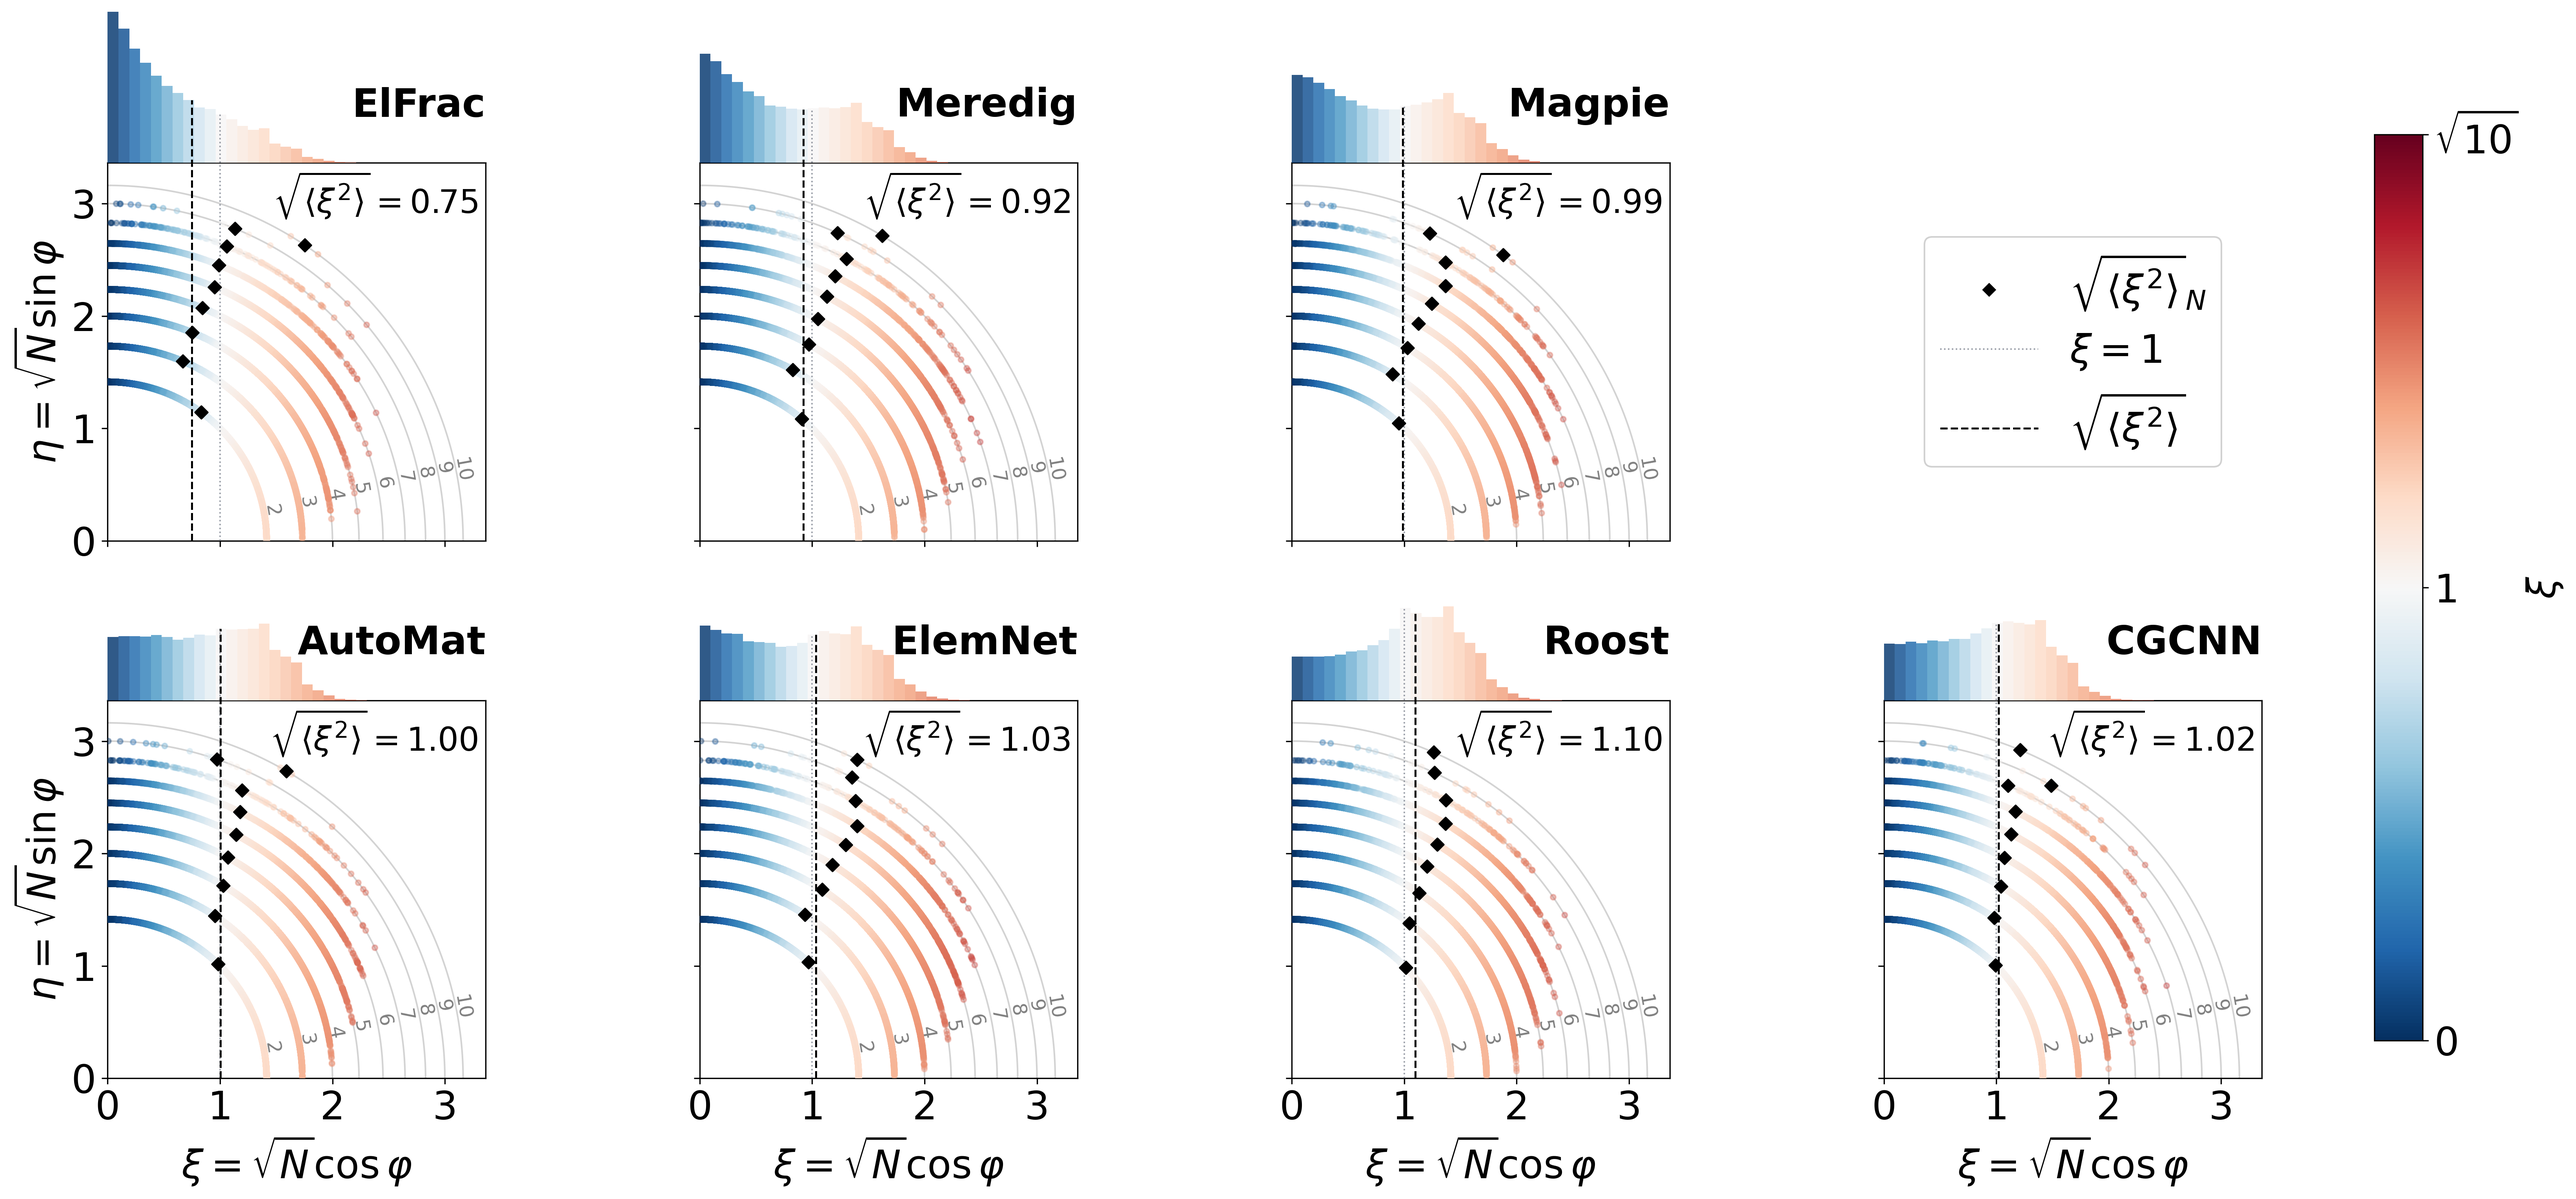
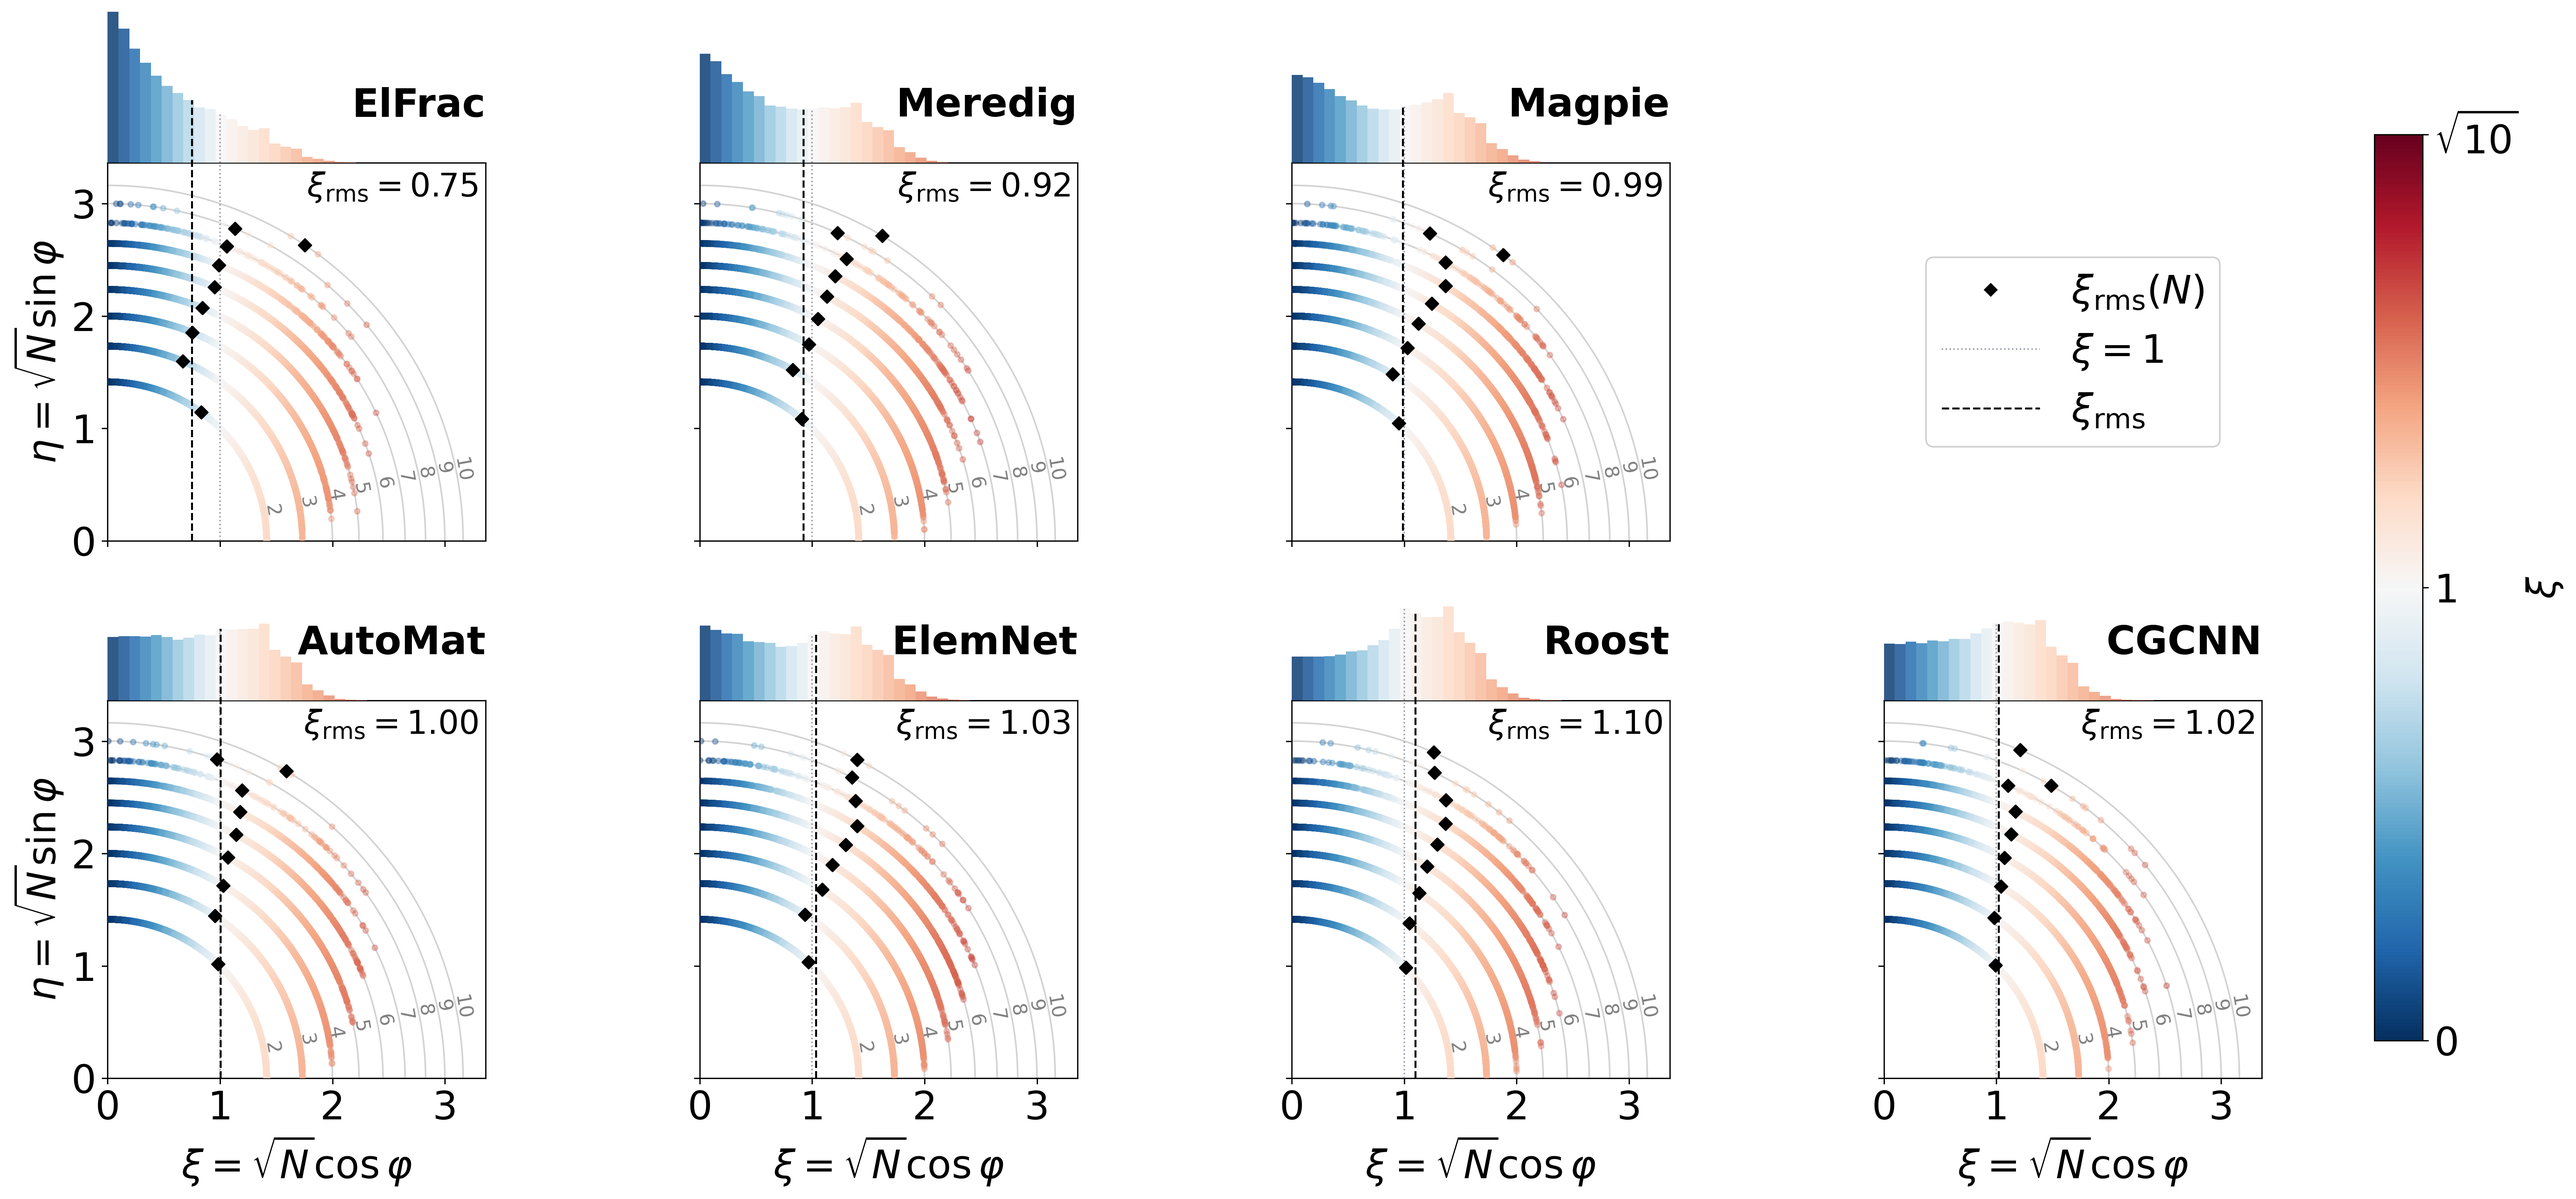
figure style update

diff --git a/scripts/figures/fig3.py b/scripts/figures/fig3.py
@@ -15,13 +15,14 @@ import numpy as np
 import matplotlib
 matplotlib.use("Agg")
 import matplotlib.pyplot as plt
+import matplotlib.gridspec as gridspec
 from matplotlib.colors import TwoSlopeNorm
 
 # ── Journal style (npj Computational Materials) ──────────────────────────
 # source_pt = target_print_pt × (fig_width / journal_col_width)
 # Targets 7 pt (body) and 6 pt (minor) at 170 mm double-column.
 _JOURNAL_COL_W = 6.69          # 170 mm in inches
-_FIG_W         = 12.0          # this figure's width in inches
+_FIG_W         = 14.0          # rendering width for font scaling
 _FS    = round(7.0 * _FIG_W / _JOURNAL_COL_W)   # → 13 pt  (body / axis labels)
 _FS_SM = round(6.0 * _FIG_W / _JOURNAL_COL_W)   # → 11 pt  (minor annotations)
 _FS_LEG, _FS_CB = _FS, _FS
@@ -73,8 +74,13 @@ def _unit(U, V):
     return U / mag, V / mag
 
 # ── Figure ────────────────────────────────────────────────────────────────────
-fig, axes = plt.subplots(1, 2, figsize=(12, 5.5))
-fig.subplots_adjust(left=0.07, right=0.88, wspace=0.32)
+fig = plt.figure(figsize=(6.5, 14))
+gs  = gridspec.GridSpec(2, 1,
+                        height_ratios=[1, 1],
+                        hspace=0.25,
+                        left=0.12, right=0.95, top=0.96, bottom=0.10)
+axes   = [fig.add_subplot(gs[0]), fig.add_subplot(gs[1])]
+cbar_ax = fig.add_axes([0.15, 0.03, 0.70, 0.012])
 
 ext = EXTENT * 0.93   # reference-line extent
 phi_c = np.linspace(0, 2 * np.pi, 400)
@@ -85,7 +91,7 @@ panels = [
      r'$-\nabla_\mathbf{r}\,\mathcal{L}_\mathrm{MSE}$'),
     (axes[1], U_xi2,  V_xi2,  xs_b, ys_b, 'b',
      r'$\mathcal{L}_{\xi^2} = \xi^2 = N\cdot \cos^2 \varphi$',
-     r'$-\nabla_\mathbf{r}\,\xi^2$'),
+     r'$-\nabla_\mathbf{r}\,\mathcal{L}_{\xi^2}$'),
 ]
 
 for ax, U, V, xs, ys, panel_lbl, title_str, eq_str in panels:
@@ -131,12 +137,11 @@ for ax, U, V, xs, ys, panel_lbl, title_str, eq_str in panels:
     ax.set_ylabel(r'$r_2$', fontsize=_FS)
     ax.tick_params(top=False, right=False)
 
-# ── Shared colorbar ───────────────────────────────────────────────────────────
-cbar_ax = fig.add_axes([0.90, 0.15, 0.018, 0.70])
+# ── Shared colorbar (horizontal, between panels) ──────────────────────────────
 sm = plt.cm.ScalarMappable(cmap=CMAP, norm=norm)
 sm.set_array([])
-cbar = fig.colorbar(sm, cax=cbar_ax)
-cbar.set_label(r'$\xi$', fontsize=_FS_CB)
+cbar = fig.colorbar(sm, cax=cbar_ax, orientation='horizontal')
+cbar.set_label(r'$\xi$', fontsize=_FS_CB, labelpad=2)
 cbar.set_ticks([0, 1, SQ2])
 cbar.set_ticklabels(['0', '1', r'$\sqrt{2}$'])
 

diff --git a/scripts/figures/fig1.py b/scripts/figures/fig1.py
@@ -34,7 +34,7 @@ norm   = TwoSlopeNorm(vmin=0, vcenter=1.0, vmax=np.sqrt(10))
 # _PT_BODY / _PT_SM set the desired print size in pt — increase if fonts look
 # too small on screen (dense figures like this one warrant a larger target).
 _JOURNAL_COL_W   = 6.69   # 170 mm in inches
-_FIG_W           = 12.0   # this figure's width in inches
+_FIG_W           = 11.0   # rendering width for font scaling
 _PT_BODY, _PT_SM = 9.0, 7.5   # target print sizes (pt)
 _FS    = round(_PT_BODY * _FIG_W / _JOURNAL_COL_W)   # → 16 pt
 _FS_SM = round(_PT_SM   * _FIG_W / _JOURNAL_COL_W)   # → 13 pt
@@ -128,7 +128,7 @@ def draw_panel(ax, key):
     ax.plot([xi_rms, xi_rms], [0, rms_top], color='black', lw=1.2, ls='--',
             zorder=5, clip_on=False)
     # rms value as text annotation inside the panel
-    ax.text(0.98, 0.98, r'$\sqrt{\langle\xi^2\rangle} =' + rf'{xi_rms:.2f}$',
+    ax.text(0.98, 0.98, r'$\xi_\mathrm{rms} =' + rf'{xi_rms:.2f}$',
             transform=ax.transAxes, fontsize=_FS_SM, ha='right', va='top')
 
     # -- Frame wraps circle region only: ylim = (0, CIRC_TOP) ----------------
@@ -141,12 +141,15 @@ def draw_panel(ax, key):
     ax.set_aspect('equal')
 
 # -- Figure -------------------------------------------------------------------
-fig, (ax_a, ax_b) = plt.subplots(1, 2, figsize=(12, 8))
+fig, (ax_a, ax_b) = plt.subplots(2, 1, figsize=(6.5, 13))
+fig.subplots_adjust(hspace=0.35)
 
 draw_panel(ax_a, 'cancel')
 draw_panel(ax_b, 'stat')
-ax_b.tick_params(labelleft=False)
-ax_b.set_ylabel('')
+
+# Remove x-axis label and tick labels from panel a (shared with b)
+ax_a.set_xlabel('')
+ax_a.tick_params(labelbottom=False)
 
 # Shared legend — diamond + ξ=1 line, shared across both panels
 _leg_handles = [
@@ -155,17 +158,26 @@ _leg_handles = [
     mlines.Line2D([], [], color=COL_REF, lw=0.9, ls=':', alpha=0.7,
                   label=r'$\xi = 1$'),
     mlines.Line2D([], [], color='black', lw=1.2, ls='--',
-                  label=r'$\sqrt{\langle\xi^2\rangle}$'),
+                  label=r'$\xi_\mathrm{rms}$'),
 ]
 fig.legend(handles=_leg_handles, loc='lower center', ncol=3,
-           fontsize=_FS_LEG, framealpha=0.9, bbox_to_anchor=(0.5, -0.04))
+           fontsize=_FS_LEG, framealpha=0.9, bbox_to_anchor=(0.5, 0.025))
+
+# Colorbar below legend
+cbar_ax = fig.add_axes([0.15, -0.015, 0.70, 0.012])
+sm = plt.cm.ScalarMappable(cmap=CMAP, norm=norm)
+sm.set_array([])
+cbar = fig.colorbar(sm, cax=cbar_ax, orientation='horizontal')
+cbar.set_label(r'$\xi$', fontsize=_FS_CB)
+cbar.set_ticks([0, 1, np.sqrt(10)])
+cbar.set_ticklabels(['0', '1', r'$\sqrt{10}$'])
 
 # Panel labels
 for ax, lbl in [(ax_a, 'a'), (ax_b, 'b')]:
     ax.text(-0.18, 1.15, lbl, transform=ax.transAxes,
             fontsize=_FS_PANEL, fontweight='bold', va='bottom', ha='left', clip_on=False)
 
-plt.tight_layout()
+plt.tight_layout(rect=[0, 0.07, 1, 1])
 
 
 def main():

diff --git a/scripts/figures/fig2.py b/scripts/figures/fig2.py
@@ -143,7 +143,7 @@ def plot(by_model: dict, models: list, out_path: str):
                 zorder=4, clip_on=False)
         ax.plot([rms_xi, rms_xi], [0, _vline_top(rms_xi)],
                 color="black", lw=1.2, ls="--", zorder=5, clip_on=False)
-        ax.text(0.98, 0.98, r"$\sqrt{\langle\xi^2\rangle}= " + rf"{rms_xi:.2f}$",
+        ax.text(0.98, 0.98, r"$\xi_\mathrm{rms} =" + rf"{rms_xi:.2f}$",
                 transform=ax.transAxes, fontsize=_FS_SM, ha="right", va="top")
 
         ax.set_xlim(0, lim)
@@ -161,11 +161,11 @@ def plot(by_model: dict, models: list, out_path: str):
     # Shared legend in first empty panel slot (or figure bottom)
     _leg_handles = [
         mlines.Line2D([], [], color="black", marker="D", markersize=5,
-                      linestyle="None", label=r"$\sqrt{\langle\xi^2\rangle}_N$"),
+                      linestyle="None", label=r"$\xi_\mathrm{rms}(N)$"),
         mlines.Line2D([], [], color=_COL_REF, lw=0.9, ls=":", alpha=0.7,
                       label=r"$\xi = 1$"),
         mlines.Line2D([], [], color="black", lw=1.2, ls="--",
-                      label=r"$\sqrt{\langle\xi^2\rangle}$"),
+                      label=r"$\xi_\mathrm{rms}$"),
     ]
     # Hide any empty slots after the last model (skip legend slot)
     for idx in range(len(models_present), n_rows * n_cols - 1):

diff --git a/README.md b/README.md
@@ -80,16 +80,3 @@ python scripts/figures/fig4.py --csv results/2026/interference_summary_2026.csv
 python scripts/figures/fig3.py
 # etc.
 ```
-
----
-
-## The interference index
-
-For a decomposition reaction $A = Σ_i \nu_i \Delta_\mathrm{f} H_i$, define the error vector **c** with components $c_i = \nu_i · \delta_i$ where $\delta_i = \Delta_\mathrm{f} H_i^\mathrm{ML} − \Delta_\mathrm{f} H_i^\mathrm{DFT}$. The interference index is:
-
-$\xi = \frac{\left|\sum_i c_i\right|}{\left|\left|\mathbf{c}\right|\right|} = \sqrt{N}\cdot \cos{\theta}$
-
-$\xi \rightarrow 0$: errors cancel across the reaction (favourable)
-$\xi \rightarrow \sqrt{N}$: errors align constructively (unfavourable)
-
-ξ is scale-in...
